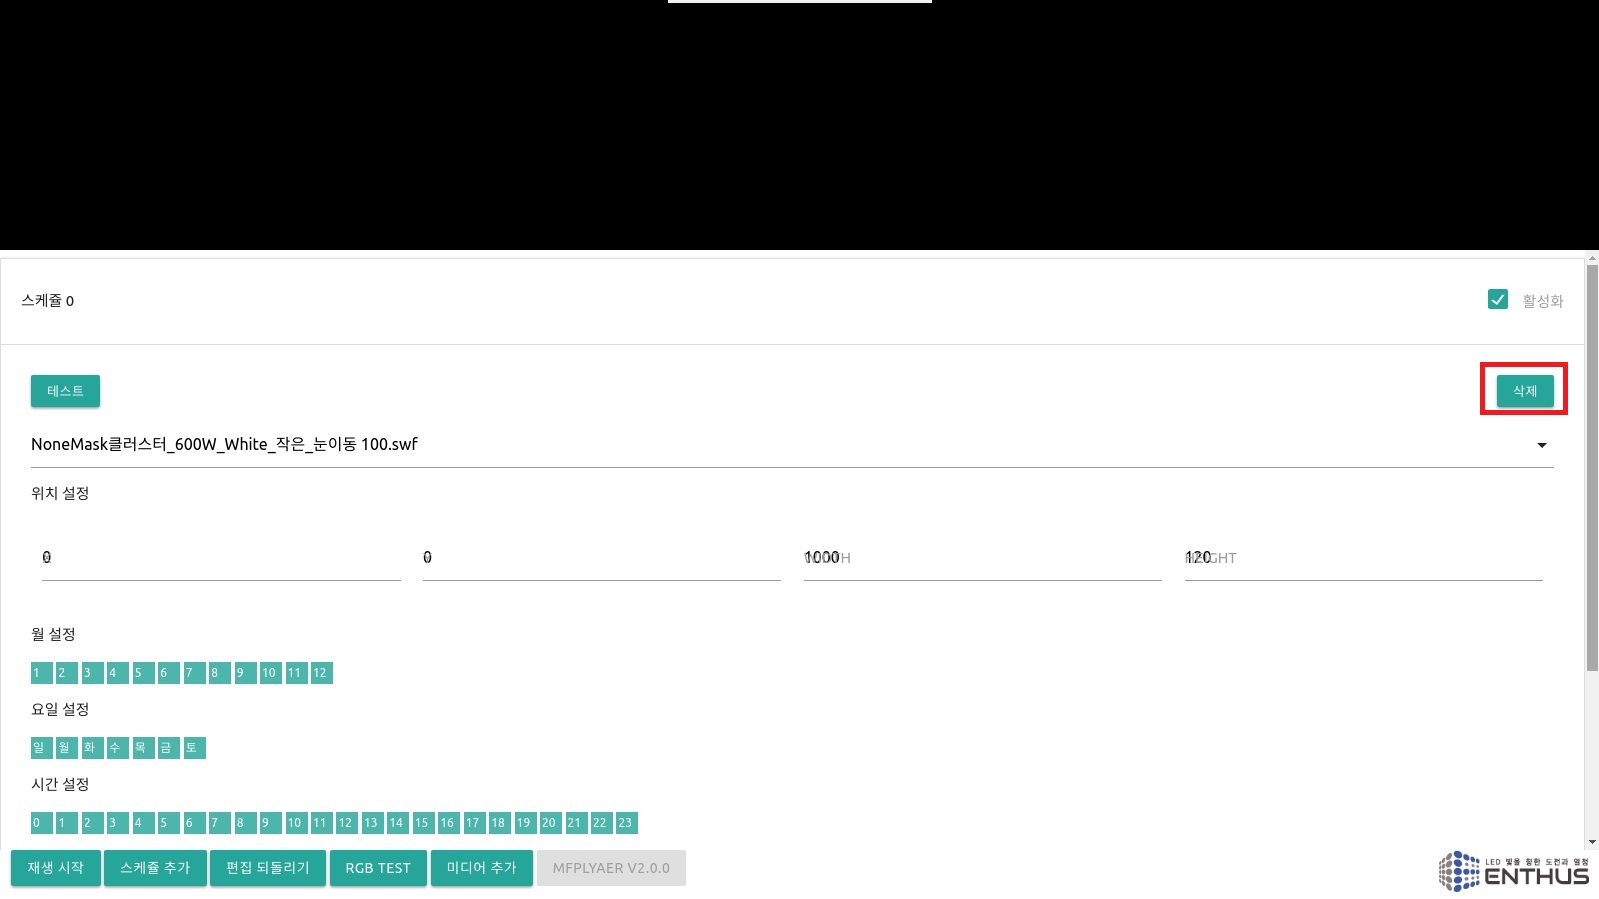
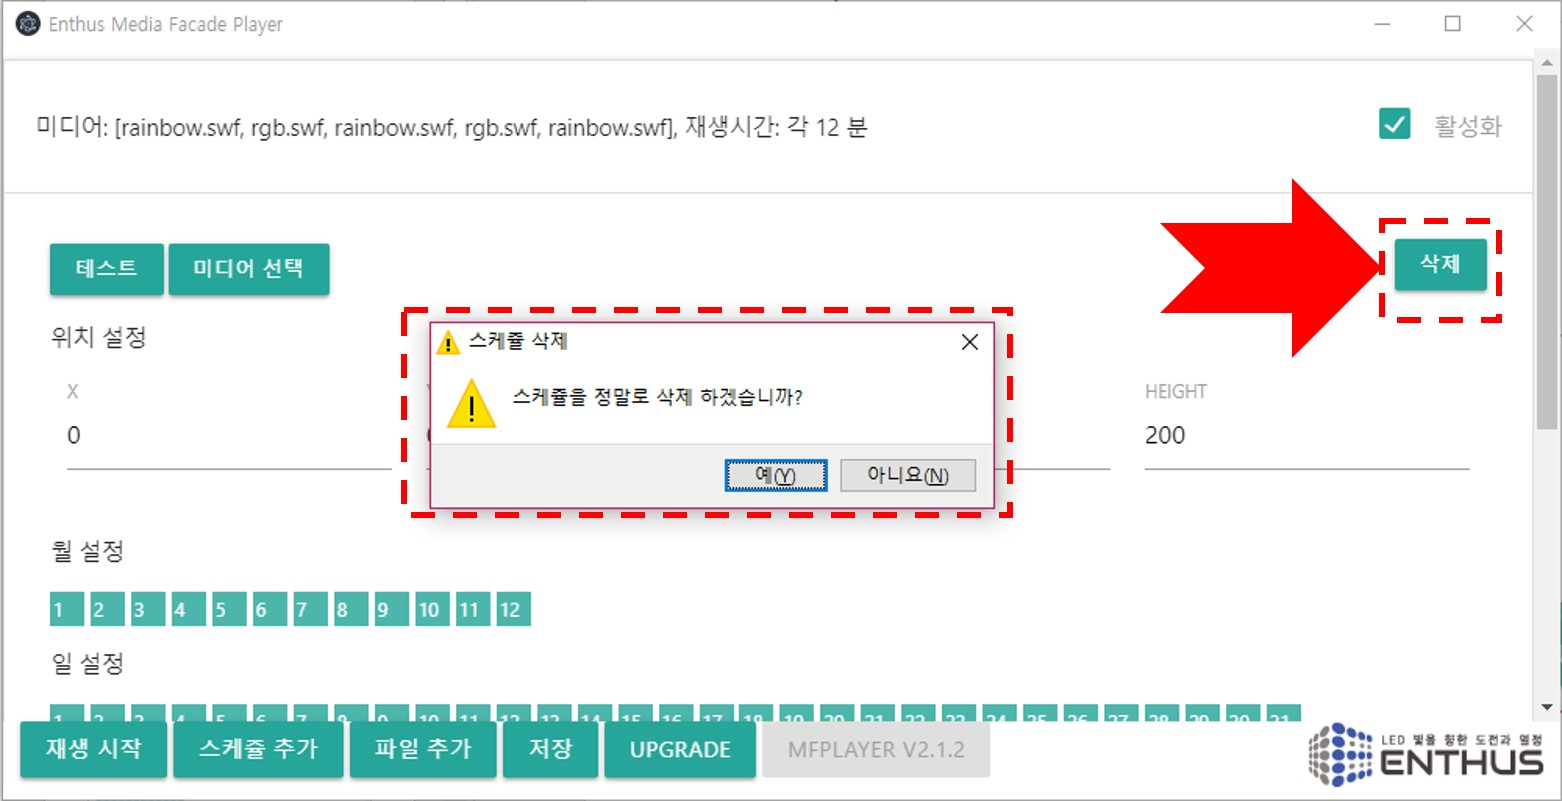
dong-daegu5

diff --git a/docs/index.md b/docs/index.md
@@ -1,40 +1,9 @@
-### 테스트
-선택된 미디어와 위치 설정이 올바르게 되었는지 확인하려면 테스트 버튼을 누릅니다. 아래 메인 메뉴의 정지 버튼을 통해 테스트를 멈출 수 있습니다.
+### 추가
+하단 메뉴의 **스케쥴 추가** 버튼을 누르면, 모든 시간에 활성화되어 있는 기본 설정으로 새로운 스케쥴이 추가됩니다.
 
-![](img/media_test.jpg)
+![](img/schedule_add_button.jpg)
 
-### 삭제
-삭제 버튼을 클릭하면 경고메시지와 함께 스케쥴이 삭제됩니다.
+### 편집
+스케쥴을 클릭하면 스케쥴 편집창이 열립니다. 편집창에서는 [테스트](/start_stop_test), [미디어 선택](/media_select), [삭제](/delete_enable), [위치 설정](/position) 및 [시간 설정](/time)이 가능합니다.
 
-![](img/delete.jpg)
-
-### 활성화
-스케쥴을 지우지 않고 사용하지 않는 상태로 유지하려면 활성화 박스를 클릭해서 상태를 바꿉니다. 활성화 되지 않은 스케쥴은 정해진 시간에 재생되지 않습니다.
-
-![](img/enable.jpg)
-
-### 시간 설정
-
-!!! note
-    MFPlayer 는 반복 재생을 위한 시간을 설정합니다. 시간 설정 버튼이 선택되어 있는 시간에만 반복적인 재생을 합니다.
-
-스케쥴 편집창을 스크롤해 내리면 월, 요일, 일, 시간, 분 설정 버튼을 선택할 수 있습니다.
-
-![](img/time.jpg)
-
-매년 1월 일요일에만 저녁 6시에서 8시사이에 30동안만 미디어가 재생할 경우 아래의 그림과 같이 설정합니다.
-
-![](img/time1.jpg)
-
-일년동안 저녁 6시에서 밤 12시까지 재생하는 예시는 아래와 같습니다.
-
-![](img/time2.jpg)
-
-일년동안 저녁 9시에 5 분동안 재생하는 예시는 아래와 같습니다.
-
-![](img/time3.jpg)
-
-### 재생
-스케쥴 설정이 완료되면 **재생 시작** 버튼을 눌러 스케쥴 동작을 시작합니다. 스케쥴에 있는 시간 설정에 따라 정해진 시간에 미디어가 재생됩니다. 다시 **정지** 버튼을 눌러 스케쥴 동작을 멈출 수 있습니다.
-
-![](img/run_stop.jpg)
+![](img/schedule_open.jpg)

diff --git a/docs/store_upgrade.md b/docs/store_upgrade.md
@@ -1,13 +1,13 @@
 ### 저장
-하단 메인 메뉴의 저장 버튼을 누르면 수정한 스케쥴 설정이 저장됩니다. MFPlayer 가 정전으로 재부팅될 경우 저장된 스케쥴 데이터를 다시 읽어 그대로 재생할 수 있습니다.
+하단 메인 메뉴의 `저장` 버튼을 누르면 수정한 스케쥴 설정이 저장됩니다. MFPlayer 가 정전으로 재부팅될 경우 저장된 스케쥴 데이터를 다시 읽어 그대로 재생할 수 있습니다.
 
-![](img/store_button.jpg)
+![](img/store.jpg)
 
 !!! note
-    MFPlayer 는 재생 스케쥴 데이터를 저장합니다. 저장 버튼을 누르지 않더라도 스케쥴 편집 후 1 번이라도 재생 버튼으로 재생을 하면 스케쥴 데이터는 안전하게 저장됩니다.
+    MFPlayer 에서 `저장` 버튼을 누르지 않더라도 스케쥴 편집 후 1 번이라도 `재생` 버튼으로 재생을 하면 스케쥴 데이터는 안전하게 저장됩니다.
 
 ### UPGRADE
-하단 메인 메뉴의 UPGRADE 버튼을 누르면 MFPlayer 가 최신 버젼 소프트웨어로 업그레이드 됩니다.
+하단 메인 메뉴의 `UPGRADE` 버튼을 누르면 MFPlayer 가 최신 버젼 소프트웨어로 업그레이드 됩니다.
 
 !!! warning
     안정버젼으로 업그레이드하기 위해서는 반드시 실행전 [엔토스](www.etslight.co.kr)에 문의하시기 바랍니다.

diff --git a/docs/start_stop_test.md b/docs/start_stop_test.md
@@ -1,9 +1,17 @@
-### 재생 / 정지
-스케쥴 설정이 완료되면 **재생 시작** 버튼을 눌러 스케쥴 동작을 시작합니다. 스케쥴에 있는 시간 설정에 따라 정해진 시간에 미디어가 재생됩니다. 다시 **정지** 버튼을 눌러 스케쥴 동작을 멈출 수 있습니다.
+### 재생
+스케쥴 설정이 완료되면 `재생 시작` 버튼을 눌러 스케쥴 동작을 시작합니다. 설정된 스케쥴의 시간에 따라 정해진 미디어가 재생됩니다.
 
-![](img/run_stop.jpg)
+![](img/start.jpg)
+
+### 정지
+스케쥴 재생 중 `정지` 버튼을 누르면 스케쥴 동작을 멈추게 됩니다.
+
+![](img/stop.jpg)
+
+!!! warning
+    스케쥴 변경 완료, 원격 접속이 완료된 뒤에는 반드시 `재생 시작` 버튼을 눌러 MFPlayer 가 동작 상태가 되도록 해야 합니다.
 
 ### 테스트
-선택된 미디어와 위치 설정이 올바르게 되었는지 확인하려면 테스트 버튼을 누릅니다. 아래 메인 메뉴의 정지 버튼을 통해 테스트를 멈출 수 있습니다.
+선택된 미디어와 위치 설정이 올바르게 되었는지 확인하려면 `테스트` 버튼을 누릅니다. 아래 메인 메뉴의 `정지` 버튼을 통해 테스트를 멈출 수 있습니다.
 
-![](img/media_test.jpg)
+![](img/test.jpg)

diff --git a/docs/connect_remote.md b/docs/connect_remote.md
@@ -44,4 +44,4 @@ TeamViewer 는 원격 컴퓨터 제어 프로그램으로 비상업적 목적일
 ![](img/teamviewer_send_complete.jpg)
 
 ### 전송 파일 확인
-스케쥴 편집의 미디어 선택 버튼을 누르면 전송이 완료된 파일들이 리스트로 표시됩니다. 미디어 파일을 선택하여 사용하는 방법은 이어지는 [스케쥴 추가 / 편집](/schedule_add) 문서에서 확인하시기 바랍니다.
+스케쥴 편집의 미디어 선택 버튼을 누르면 전송이 완료된 파일들이 리스트로 표시됩니다. 미디어 파일을 선택하여 사용하는 방법은 이어지는 [스케쥴 추가 / 편집](/index) 문서에서 확인하시기 바랍니다.

diff --git a/docs/position.md b/docs/position.md
@@ -7,4 +7,4 @@ X / Y 는 미디어 재생 화면의 가로 세로 위치를, Height / Width 는
 ![](img/position.jpg)
 
 !!! warning
-    화면 위치와 크기는 [엔토스](www.etslight.co.kr) 에서 제공된 설정을 항상 유지되어야 합니다. 새로운 스케쥴을 추가할 때에는 이전에 설정된 스케쥴 데이터를 참조하시기 바랍니다.
+    화면 위치와 크기는 [엔토스](www.etslight.co.kr) 에서 제공된 설정을 항상 유지해야 합니다. 새로운 스케쥴을 추가할 때에는 이전에 설정된 스케쥴 데이터를 참조하시기 바랍니다.
